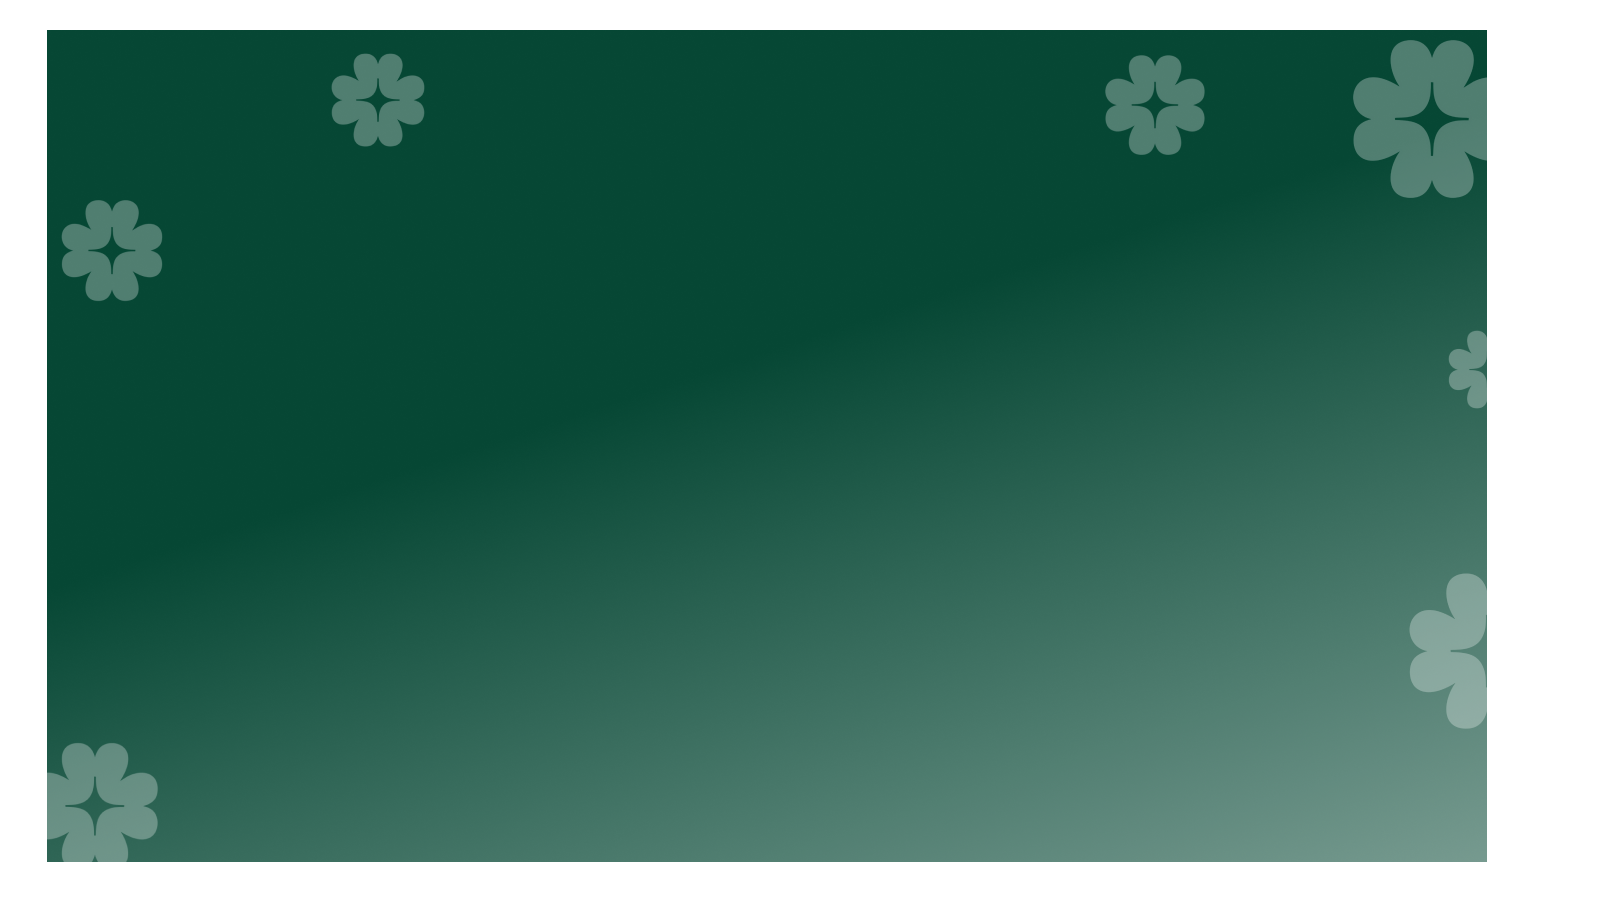
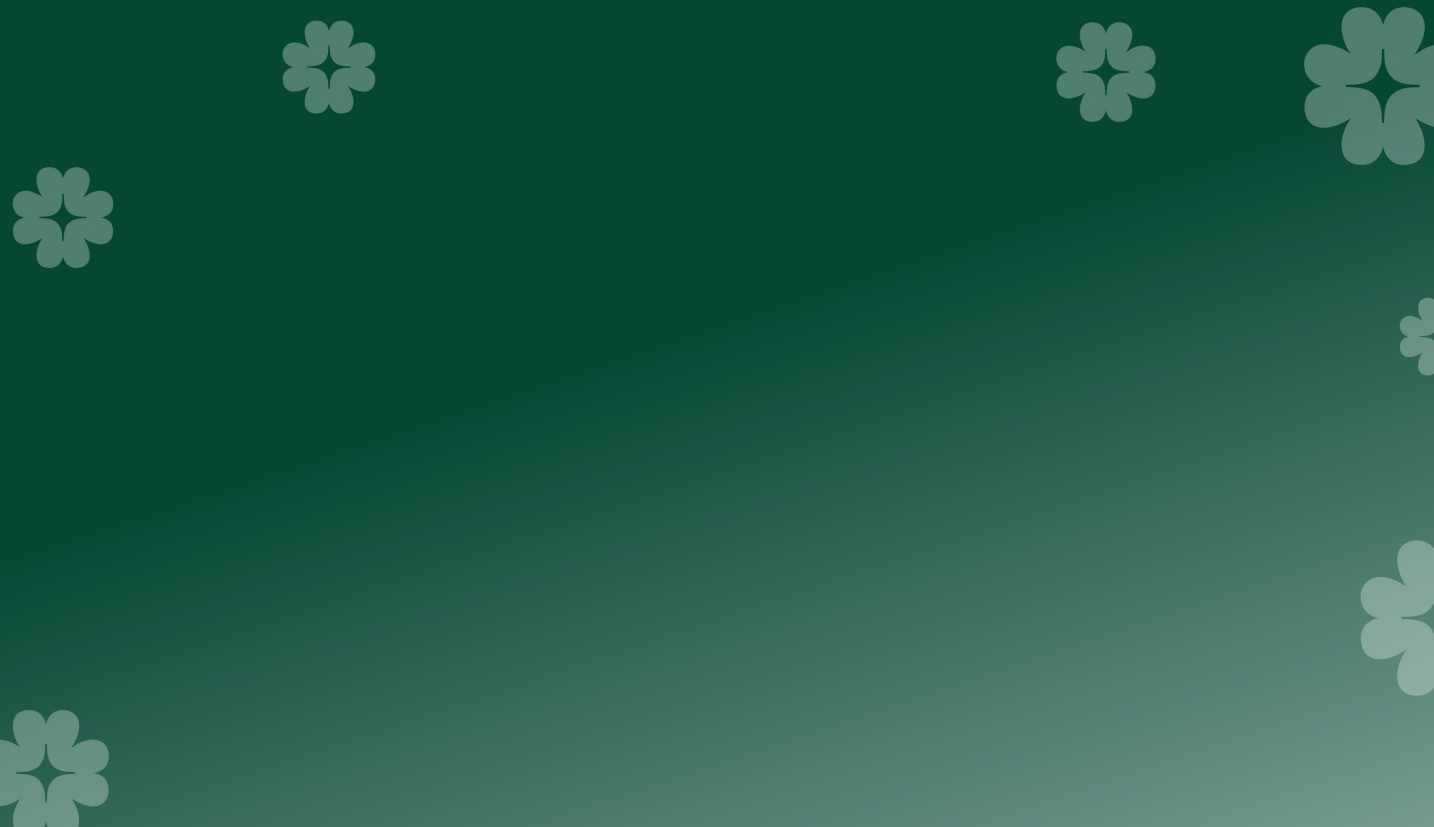
new changes

Changed region(s): [[0.0, 0.0, 1.0, 1.0]]

diff --git a/src/components/WhyChooseUs.tsx b/src/components/WhyChooseUs.tsx
@@ -12,25 +12,42 @@ const BADGES = [
 
 const WhyChooseUs = () => {
   return (
-    <section
-      className="relative w-full overflow-hidden"
-      style={{
-        backgroundImage: `url(${bgWhyDifferent})`,
-        backgroundSize: "100% 100%",
-        backgroundPosition: "center",
-        backgroundRepeat: "no-repeat",
-      }}
-    >
-      <div className="relative z-10 max-w-[1440px] w-full px-4 md:px-6 mx-auto text-center text-white pt-8 pb-14 md:pt-10 md:pb-20">
-        <h2 className="text-[24px] md:text-[40px] leading-[36px] md:leading-[60px] font-semibold" style={{ fontFamily: "'Poppins', sans-serif" }}>
+    <section className="relative w-full overflow-hidden" style={{ minHeight: "520px" }}>
+      {/* Full-bleed background image sized to viewport to avoid image-edge padding */}
+      <img
+        src={bgWhyDifferent}
+        alt="background"
+        className="pointer-events-none select-none"
+        style={{
+          position: "absolute",
+          left: "50%",
+          top: 0,
+          transform: "translateX(-50%)",
+          width: "calc(100vw + 520px)",
+          height: "100%",
+          objectFit: "cover",
+          zIndex: 0,
+        }}
+      />
+      {/* Content (centered max width like other sections) */}
+      <div className="relative z-10 w-full max-w-[1440px] mx-auto px-4 md:px-6 text-center text-white pt-12 pb-16 md:pt-16 md:pb-24">
+
+        <h2
+          className="text-[24px] md:text-[40px] leading-[36px] md:leading-[60px] font-semibold"
+          style={{ fontFamily: "'Poppins', sans-serif" }}
+        >
           What Makes rePhyl Different
         </h2>
-        <p className="text-[14px] md:text-[20px] leading-[22px] md:leading-[28px] mt-2 mb-6 md:mt-2 md:mb-12" style={{ fontFamily: "'Poppins', sans-serif" }}>
+
+        <p
+          className="text-[14px] md:text-[20px] leading-[22px] md:leading-[28px] mt-2 mb-6 md:mb-12"
+          style={{ fontFamily: "'Poppins', sans-serif" }}
+        >
           Curated Combinations for Effortless Cleaning
         </p>
 
-        {/* White container with Reset / Relief / Safety */}
-        <div className="relative bg-white rounded-[16px] md:rounded-[24px] px-4 py-6 md:px-10 md:py-8 shadow-[0px_8px_40px_rgba(0,38,3,0.08)] mb-6 md:mb-8 max-w-[1200px] mx-auto">
+        {/* White container */}
+        <div className="bg-white rounded-[16px] md:rounded-[24px] px-4 py-6 md:px-10 md:py-8 shadow-[0px_8px_40px_rgba(0,38,3,0.08)] mb-6 md:mb-8">
           <div className="flex flex-col md:flex-row justify-center items-center gap-6 md:gap-[60px]">
             {[
               { icon: "↻", title: "Reset", subtitle: "A reset you can feel" },
@@ -38,11 +55,21 @@ const WhyChooseUs = () => {
               { icon: "🛡", title: "Safety", subtitle: "No harsh residues" },
             ].map((item, i) => (
               <div key={i} className="flex flex-col items-center text-center gap-2 md:w-[200px]">
-                <div className="w-[52px] h-[52px] md:w-[68px] md:h-[68px] rounded-full flex items-center justify-center" style={{ background: "#F1FBD8" }}>
+                <div className="w-[52px] h-[52px] md:w-[68px] md:h-[68px] rounded-full flex items-center justify-center bg-[#F1FBD8]">
                   <span className="text-[24px] md:text-[28px]">{item.icon}</span>
                 </div>
-                <p className="text-[14px] md:text-[18px] font-semibold text-[#064734]" style={{ fontFamily: "'Poppins', sans-serif" }}>{item.title}</p>
-                <p className="text-[12px] md:text-[14px] text-[#064734]" style={{ fontFamily: "'Poppins', sans-serif" }}>{item.subtitle}</p>
+                <p
+                  className="text-[14px] md:text-[18px] font-semibold text-[#064734]"
+                  style={{ fontFamily: "'Poppins', sans-serif" }}
+                >
+                  {item.title}
+                </p>
+                <p
+                  className="text-[12px] md:text-[14px] text-[#064734]"
+                  style={{ fontFamily: "'Poppins', sans-serif" }}
+                >
+                  {item.subtitle}
+                </p>
               </div>
             ))}
           </div>
@@ -51,16 +78,23 @@ const WhyChooseUs = () => {
         {/* Badge pills */}
         <div className="flex flex-wrap justify-center gap-3 md:gap-4">
           {BADGES.map((badge, i) => (
-            <div key={i} className="flex items-center gap-2 bg-white rounded-full px-4 py-2 md:px-5 md:py-2.5 shadow-sm">
+            <div
+              key={i}
+              className="flex items-center gap-2 bg-white rounded-full px-4 py-2 md:px-5 md:py-2.5 shadow-sm"
+            >
               <div className="w-[24px] h-[24px] md:w-[28px] md:h-[28px] flex items-center justify-center">
                 {badge.icon}
               </div>
-              <span className="text-[12px] md:text-[14px] font-medium text-[#064734]" style={{ fontFamily: "'Poppins', sans-serif" }}>
+              <span
+                className="text-[12px] md:text-[14px] font-medium text-[#064734]"
+                style={{ fontFamily: "'Poppins', sans-serif" }}
+              >
                 {badge.title}
               </span>
             </div>
           ))}
         </div>
+
       </div>
     </section>
   );

diff --git a/src/pages/AboutUs.tsx b/src/pages/AboutUs.tsx
@@ -6,14 +6,15 @@ import WhyChooseUs from "@/components/WhyChooseUs";
 
 const AboutUs = () => {
   return (
-    <div className="min-h-screen">
+    <div className="w-full">
+
       <Navbar />
 
       <HeroSection />
       <TrustMarqueeStrip />
 
-      {/* About Us Content Section */}
-      <section className="w-full" style={{ backgroundColor: "#F1FBD8" }}>
+      {/* ✅ NORMAL SECTION (centered content) */}
+      <section className="w-full bg-[#F1FBD8]">
         <div className="max-w-[1318px] mx-auto px-4 md:px-[68px] py-12 md:py-16">
           <h2
             className="text-[28px] md:text-[40px] leading-[42px] md:leading-[60px] font-semibold text-[#064734] mb-6 md:mb-8"
@@ -26,30 +27,34 @@ const AboutUs = () => {
             className="space-y-5 md:space-y-6 text-[16px] md:text-[24px] leading-[160%] md:leading-[100%] text-[#064734]"
             style={{ fontFamily: "'Poppins', sans-serif", fontWeight: 400 }}
           >
-            <p>
-              For decades, "clean" has come with a trade-off—
-            </p>
+            <p>For decades, "clean" has come with a trade-off—</p>
+
             <p className="font-semibold">
               harsh chemicals, overpowering smells, and a quiet doubt: is this really safe?
             </p>
-            <p>
-              We created <strong>rePhyl</strong> to change that.
-            </p>
+
+            <p>We created <strong>rePhyl</strong> to change that.</p>
+
             <p>
               At rePhyl, we believe that clean and safe aren't trade-offs, they're the standard.
             </p>
+
             <p>
-              We create plant-powered home cleaning solutions designed to deliver powerful and effective cleaning without relying on harsh chemicals or overpowering synthetic fragrances. Every product is thoughtfully formulated to remove dirt, grime, and everyday buildup, while being gentle on your home and the people in it.
+              We create plant-powered home cleaning solutions designed to deliver powerful and effective cleaning without relying on harsh chemicals or overpowering synthetic fragrances.
             </p>
+
             <p>
-              At the heart of rePhyl is a simple idea: you shouldn't have to question the safety of the spaces you live in. No hidden toxins, no lingering fumes, no second thoughts.
+              At the heart of rePhyl is a simple idea: you shouldn't have to question the safety of the spaces you live in.
             </p>
+
             <p>
-              Bring home a clean that feels as good as it looks. Bring home the <strong>feeling of reset</strong>, the <strong>ease of relief</strong>, and the <strong>confidence of safety</strong>.
+              Bring home the <strong>feeling of reset</strong>, the <strong>ease of relief</strong>, and the <strong>confidence of safety</strong>.
             </p>
+
             <p>
-              By combining nature-backed ingredients with modern formulation science, we aim to redefine what home care can be: clean, safe, and refreshingly honest.
+              By combining nature-backed ingredients with modern formulation science, we aim to redefine what home care can be.
             </p>
+
             <p>
               Because a truly clean home isn't just spotless, it's one you can trust.
             </p>
@@ -57,8 +62,11 @@ const AboutUs = () => {
         </div>
       </section>
 
+      {/* ✅ FULL WIDTH SECTION (no constraints) */}
       <WhyChooseUs />
+
       <Footer />
+
     </div>
   );
 };

diff --git a/src/components/BlogsSection.tsx b/src/components/BlogsSection.tsx
@@ -29,16 +29,12 @@ const BlogsSection = () => {
     }
   };
 
-  const bgStyle = {
-    backgroundImage: `url(${bgBlogs})`,
-    backgroundSize: "100% 100%",
-    backgroundPosition: "center",
-    backgroundRepeat: "no-repeat" as const,
-  };
+  const bgStyle = {};
 
   if (loading) {
     return (
-      <section className="w-full text-white text-center py-16 md:py-24" style={bgStyle}>
+      <section className="relative w-full text-white text-center py-16 md:py-24">
+        <img src={bgBlogs} alt="bg" className="pointer-events-none select-none" style={{ position: "absolute", left: "50%", top: 0, transform: "translateX(-50%)", width: "calc(100vw + 520px)", height: "100%", objectFit: "cover", zIndex: 0 }} />
         <Loader2 className="animate-spin mx-auto mb-2" />
         Loading...
       </section>
@@ -47,14 +43,16 @@ const BlogsSection = () => {
 
   if (error || !blogs || blogs.length === 0) {
     return (
-      <section className="w-full text-white text-center py-16 md:py-24" style={bgStyle}>
+      <section className="relative w-full text-white text-center py-16 md:py-24">
+        <img src={bgBlogs} alt="bg" className="pointer-events-none select-none" style={{ position: "absolute", left: "50%", top: 0, transform: "translateX(-50%)", width: "calc(100vw + 520px)", height: "100%", objectFit: "cover", zIndex: 0 }} />
         No blogs available.
       </section>
     );
   }
 
   return (
-    <section className="relative w-full overflow-hidden" style={bgStyle}>
+    <section className="relative w-full overflow-hidden">
+      <img src={bgBlogs} alt="bg" className="pointer-events-none select-none" style={{ position: "absolute", left: "50%", top: 0, transform: "translateX(-50%)", width: "calc(100vw + 520px)", height: "100%", objectFit: "cover", zIndex: 0 }} />
       <div className="relative max-w-[1440px] mx-auto text-center text-white px-4 pt-8 pb-16 md:pt-10 md:pb-28">
         <h2 className="text-[24px] md:text-[40px] font-semibold leading-[36px] md:leading-[60px]">
           Clean Living, Smarter Choices

diff --git a/src/components/HomecareKitsSection.tsx b/src/components/HomecareKitsSection.tsx
@@ -49,10 +49,8 @@ const HomecareKitsSection = ({ showKitsTab = true }: { showKitsTab?: boolean }) 
   return (
     <div id="homecare-kits-section">
       {/* ===== SECTION 1: Smart Bundles / Single Products (height: 727px) ===== */}
-      <section
-        className="relative w-full overflow-hidden"
-        style={{ minHeight: "auto", backgroundImage: `url(${bgSingleProducts})`, backgroundSize: "100% 100%", backgroundPosition: "center", backgroundRepeat: "no-repeat" }}
-      >
+      <section className="relative w-full overflow-hidden" style={{ minHeight: "auto" }}>
+        <img src={bgSingleProducts} alt="bg" className="pointer-events-none select-none" style={{ position: "absolute", left: "50%", top: 0, transform: "translateX(-50%)", width: "calc(100vw + 520px)", height: "100%", objectFit: "cover", zIndex: 0 }} />
 
         <div className="relative z-[1] mx-auto max-w-[1440px] px-4 md:px-6 py-8 md:py-16 flex flex-col justify-center">
           {/* TABS */}
@@ -765,10 +763,14 @@ const HomecareKitsSection = ({ showKitsTab = true }: { showKitsTab?: boolean }) 
       */}
 
       {/* ===== SECTION 3: Everything Your Home Needs In One Kit ===== */}
-      <section
+      {/* <section
         className="relative w-full overflow-hidden"
-        style={{ width: "100%", backgroundImage: `url(${bgHomeKits})`, backgroundSize: "100% 100%", backgroundPosition: "center", backgroundRepeat: "no-repeat" }}
-      >
+        style={{ width: "100%" }}
+        // background handled by full-bleed <img> above
+      > */}
+
+      <section className="relative w-full overflow-hidden" style={{ minHeight: "auto" }}>
+        <img src={bgHomeKits} alt="bg" className="pointer-events-none select-none" style={{ position: "absolute", left: "50%", top: 0, transform: "translateX(-50%)", width: "calc(100vw + 520px)", height: "100%", objectFit: "cover", zIndex: 0 }} />
 
         <div className="relative z-[1] mx-auto flex flex-col items-center" style={{ maxWidth: "1440px", padding: "30px 16px 30px", gap: "20px" }}>
 

diff --git a/src/components/TrustStrips.tsx b/src/components/TrustStrips.tsx
@@ -21,15 +21,8 @@ const TrustStrips = () => {
   const mobileReview = TOP_REVIEWS[mobileIndex];
 
   return (
-    <section
-      className="relative w-full overflow-hidden"
-      style={{
-        backgroundImage: `url(${bgTestimonials})`,
-        backgroundSize: "100% 100%",
-        backgroundPosition: "center",
-        backgroundRepeat: "no-repeat",
-      }}
-    >
+    <section className="relative w-full overflow-hidden" style={{ minHeight: "360px" }}>
+      <img src={bgTestimonials} alt="bg" className="pointer-events-none select-none" style={{ position: "absolute", left: "50%", top: 0, transform: "translateX(-50%)", width: "calc(100vw + 520px)", height: "100%", objectFit: "cover", zIndex: 0 }} />
       <div className="relative max-w-[1440px] mx-auto text-center px-4 pt-8 pb-16 md:pt-10 md:pb-24">
         <h2
           className="text-[24px] md:text-[40px] leading-[36px] md:leading-[60px]"

diff --git a/src/App.css b/src/App.css
@@ -1,9 +1,33 @@
 #root {
-  max-width: 1280px;
-  margin: 0 auto;
-  padding: 2rem;
-  text-align: center;
+  width: 100%;
+  margin: 0;
+  padding: 0;
 }
+
+
+
+
+
+
+
+
+
+
+
+
+
+
+
+
+
+
+
+
+
+
+
+
+
 
 .logo {
   height: 6em;
@@ -39,4 +63,10 @@
 
 .read-the-docs {
   color: #888;
+}
+
+html, body {
+  margin: 0;
+  padding: 0;
+  overflow-x: hidden;
 }

diff --git a/src/index.css b/src/index.css
@@ -173,3 +173,9 @@
 .scrollbar-hide::-webkit-scrollbar {
   display: none;
 }
+
+html, body {
+  margin: 0;
+  padding: 0;
+  overflow-x: hidden;
+}
